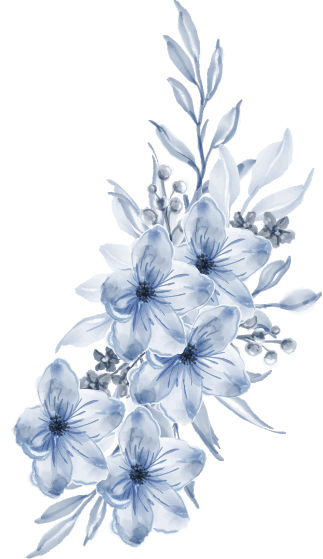
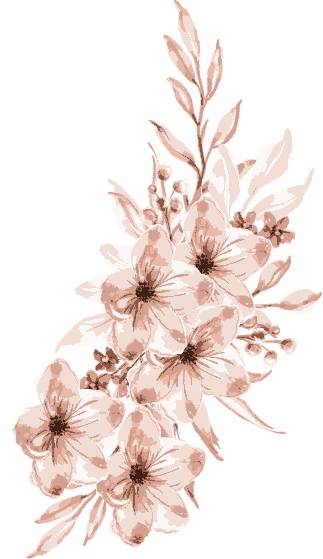
change color

diff --git a/src/index.css b/src/index.css
@@ -31,13 +31,14 @@
   --font-muli: "Muli", "sans-serif";
   --font-great-vibes: "Great Vibes", "cursive";
   --font-corinthia: "Corinthia", "cursive";
-  --color-primary: #85aaba;
-  --color-primary-light: #b2c9d3;
-  --color-text: #414141;
-  --color-paragraph: #212529;
-  --color-icon: #738ea5;
-  --color-icon-bg: #e7eff6;
-  --color-button: #8ba1aa;
+  --color-primary: #D4A090;
+  --color-primary-light: #F2DDD4;
+  --color-header: #1a1a1a;
+  --color-text: #8C5747;
+  --color-paragraph: #3D1F14;
+  --color-icon: #C4896E;
+  --color-icon-bg: #F2DDD4;
+  --color-button: #C4896E;
   --animate-pulse-scale: pulse-scale 1s infinite;
   --filter-color-image: invert(50%) sepia(56%) saturate(156%) brightness(181%)
     contrast(58%);
@@ -88,8 +89,8 @@ p {
 
 .title-flower::before {
   background-image: url("/images/title-flower.png");
-  width: 100px;
-  height: 80px;
+  width: 60px;
+  height: 60px;
 }
 
 .ant-float-btn.ant-float-btn-individual {

diff --git a/src/sections/footer.jsx b/src/sections/footer.jsx
@@ -24,7 +24,7 @@ const Footer = () => {
       >
         <div className="flex items-center justify-center text-center text-white">
           <div className="welcome-content z-10">
-            <div className="wedding-announcement size-56.25 lg:size-77.5 lg:max-w-95 bg-[#b2c9d3cc] rounded-full absolute flex items-center justify-center flex-col top-1/2 left-1/2 -translate-1/2 z-10">
+            <div className="wedding-announcement size-56.25 lg:size-77.5 lg:max-w-95 bg-primary rounded-full absolute flex items-center justify-center flex-col top-1/2 left-1/2 -translate-1/2 z-10">
               <span className="absolute inline-flex h-full w-full scale-105 rounded-full border border-primary-light z-[-1]"></span>
 
               <h2 className="couple-name font-great-vibes text-center text-3xl md:text-4xl">

diff --git a/src/sections/header.jsx b/src/sections/header.jsx
@@ -136,7 +136,7 @@ const Header = () => {
             <div className="flex items-center md:order-2">
               <a
                 href="#send-wishes"
-                className={`${isScrolled ? "text-primary" : "text-text"} bg-white hover:opacity-80 transition-opacity focus:ring-4 focus:ring-primary font-medium rounded-lg px-4 md:px-5 py-2 md:py-2.5 mr-2`}
+                className={`${isScrolled ? "text-paragraph" : "text-text"} bg-white hover:opacity-80 transition-opacity focus:ring-4 focus:ring-primary font-medium rounded-lg px-4 md:px-5 py-2 md:py-2.5 mr-2`}
                 onClick={(e) => handleScroll(e, "send-wishes")}
               >
                 Gửi lời chúc

diff --git a/src/sections/wedding-date.jsx b/src/sections/wedding-date.jsx
@@ -16,7 +16,7 @@ const WeddingDate = () => {
     <section id="date" className="wedding-date text-center py-20 lg:py-22.5">
       <div className="container mx-auto">
         <div className="title-flower mb-10 md:mb-11">
-          <h2 className="title-flower relative font-great-vibes text-4xl pt-20 md:pt-22 md:text-5xl before:bg-cover before:absolute before:top-0 before:left-[calc(50%-47px)] before:w-24 before:h-11">
+          <h2 className="title-flower text-header relative font-great-vibes text-4xl pt-20 md:pt-22 md:text-5xl before:bg-cover before:absolute before:top-0 before:left-[calc(50%-30px)]">
             Save The Date
           </h2>
         </div>

diff --git a/src/sections/gallery.jsx b/src/sections/gallery.jsx
@@ -40,7 +40,7 @@ const Gallery = () => {
     <section className="gallery-section py-10 px-4" id="gallery">
       <div className="container mx-auto">
         <div className="title-flower mb-5 text-center">
-          <h2 className="title-flower relative font-great-vibes text-4xl pt-20 md:pt-24 md:text-5xl] before:bg-cover before:absolute before:top-0 before:left-[calc(50%-47px)] before:w-24 before:h-11">
+          <h2 className="title-flower text-header relative font-great-vibes text-4xl pt-20 md:pt-22 md:text-5xl before:bg-cover before:absolute before:top-0 before:left-[calc(50%-30px)]">
             Sweet Moments
           </h2>
 

diff --git a/src/sections/wedding-events.jsx b/src/sections/wedding-events.jsx
@@ -8,7 +8,7 @@ const WeddingEvents = () => {
     <section id="events" className="love-story py-25 px-4">
       <div className="container mx-auto">
         <div className="title-flower mb-5 text-center">
-          <h2 className="title-flower relative font-great-vibes text-4xl pt-20 md:pt-24 md:text-5xl before:bg-cover before:absolute before:top-0 before:left-[calc(50%-47px)] before:w-24 before:h-11">
+          <h2 className="title-flower text-header relative font-great-vibes text-4xl pt-20 md:pt-22 md:text-5xl before:bg-cover before:absolute before:top-0 before:left-[calc(50%-30px)]">
             Wedding Events
           </h2>
 

diff --git a/src/sections/love-story.jsx b/src/sections/love-story.jsx
@@ -71,7 +71,7 @@ const LoveStory = () => {
     <section id="story" className="love-story text-center pt-20">
       <div className="container mx-auto">
         <div className="title-flower mb-5">
-          <h2 className="title-flower relative font-great-vibes text-4xl pt-20 md:pt-22 md:text-5xl before:bg-cover before:absolute before:top-0 before:left-[calc(50%-47px)] before:w-24 before:h-11">
+          <h2 className="title-flower text-header relative font-great-vibes text-4xl pt-20 md:pt-22 md:text-5xl before:bg-cover before:absolute before:top-0 before:left-[calc(50%-30px)]">
             Our Love Story
           </h2>
 

diff --git a/src/sections/couple.jsx b/src/sections/couple.jsx
@@ -10,7 +10,7 @@ const Couple = () => {
       className="couple-section container py-25 md:pt-10 md:pb-32.5 mx-auto text-center"
     >
       <div className="title-flower mb-10 md:mb-11">
-        <h2 className="title-flower relative font-great-vibes text-4xl pt-20 md:pt-22 md:text-5xl before:bg-cover before:absolute before:top-0 before:left-[calc(50%-47px)] before:w-24 before:h-11">
+        <h2 className="title-flower text-header relative font-great-vibes text-4xl pt-20 md:pt-22 md:text-5xl before:bg-cover before:absolute before:top-0 before:left-[calc(50%-30px)]">
           Happy Couple
         </h2>
       </div>

diff --git a/src/pages/invitation/index.jsx b/src/pages/invitation/index.jsx
@@ -88,7 +88,7 @@ const BrideInvitation = () => {
         </a>
 
         <button className="text-white! bg-[#98907e]! rounded-md text-sm px-4 py-1 mt-4">
-          <Link to="/">Về trang chủ</Link>
+          <Link to="/">Xem ảnh cưới</Link>
         </button>
 
         <AudioPlayer />
